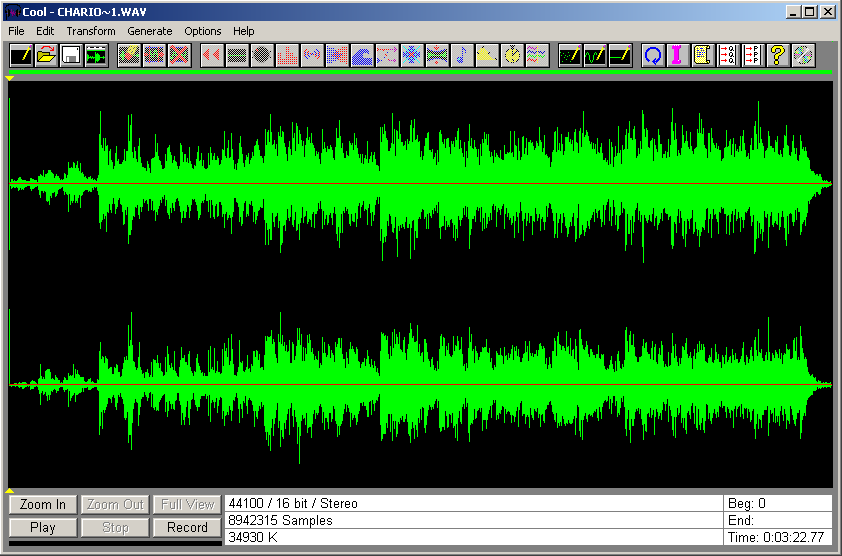
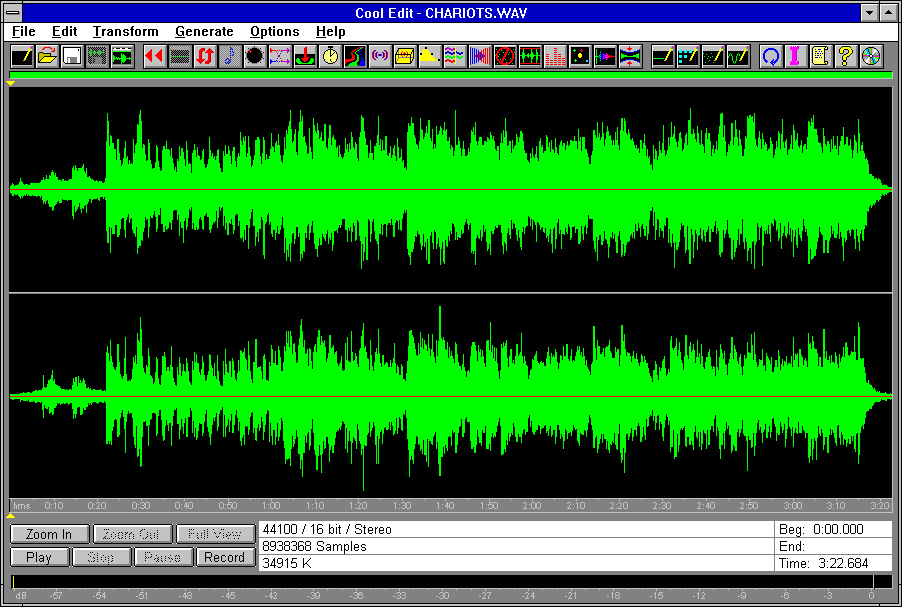
Some nice screenshots straight from Win3.1

diff --git a/cooledit.php b/cooledit.php
@@ -94,7 +94,7 @@
         </font>
         <font face="Tahoma" size=2 color="black"><blockquote>
         <a href="screens/cooledit.png" target=outside><img src="screens/cooledit.png" 
-        alt="CoolEdit 1.3.1" align=right height=222></a>
+        alt="CoolEdit 1.5.3" align=right height=280></a>
         CoolEdit is an audio editor that has always enjoyed high popularity among 
         digital audio enthusiasts, thanks to its powerful features, easy to use 
         interface, and reasonable price. The versions featured here are among the 
